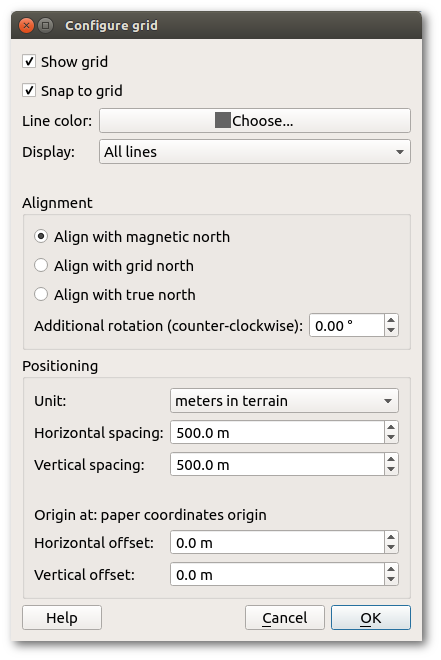
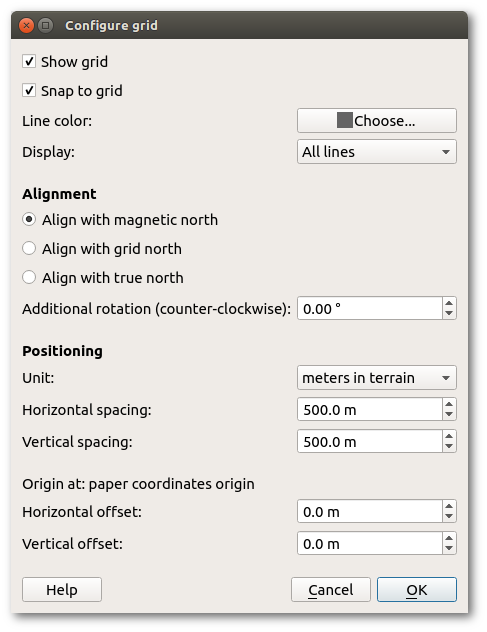
Squashed 'doc/manual/pages/' changes from bf1ff3c..9296a09
9296a09 Update grid configuration dialog screenshot
2797cd7 Add selection items in Edit menu
3e7b29e Add Delete action to Edit menu
c269b20 Reformat Edit menu page
b9ba58d Remove tools remark from Edit menu page
7d74917 Add map parts page to index
676205e Create Map Parts page
32a2117 Update Map menu
b5fc4fd Fix menu item wording
66a0236 Update Redo shortcut

git-subtree-dir: doc/manual/pages
git-subtree-split: 9296a09c8fe399f9a1184c37d4ff9c09bc106a61

Changed region(s): [[0.0295, 0.0301, 0.9728, 0.962], [0.0295, 0.0, 0.3832, 0.2706], [0.0295, 0.6915, 0.3243, 0.7215]]

diff --git a/edit_menu.md b/edit_menu.md
@@ -3,34 +3,78 @@ title: Edit Menu
 authors:
   - Peter Hoban
   - Thomas Schoeps
+  - Kai Pastor
 keywords: Menus
-edited: 24 February 2013
+edited: 10 Januar 2016
 ---
 
-<table><tr><td width="40"><img class="small" src="../mapper-images/undo.png" width="32" height="32" border="0" alt="" /></td><td width="100"><h4>Undo</h4></td><td width="70"><h4>Ctrl+Z</h4></td><td width="400">
-<p>This most important function reverses the last change made to the map. Repeating 'Undo' will undo earlier changes, one step at a time.<br/><br/>
-<b>Attention</b>: while changes to map objects can be undone this way, not all map changes are covered by the undo system. This includes changes to colors, symbols or templates. Because of this, it is very advisable to make a backup of your map before making such changes.</p>
-</td></tr>
-
-<tr><td><img class="small" src="../mapper-images/redo.png" width="32" height="32" border="0" alt="" /></td><td><h4>Redo</h4></td><td><h4>Ctrl+Y</h4></td><td>
-<p>When you have taken Undo too far this will reverse the process &#8212; again one step at a time.</p></td></tr>
-
-<tr><td><img class="small" src="../mapper-images/cut.png" width="32" height="32" border="0" alt="" /></td><td><h4>Cut</h4></td><td><h4>Ctrl+X</h4></td><td>
-<p>This removes the selected object(s) and moves them to the clipboard.</p></td></tr>
-
-<tr><td><img class="small" src="../mapper-images/copy.png" width="32" height="32" border="0" alt="" /></td><td><h4>Copy</h4></td><td><h4>Ctrl+C</h4></td><td>
-<p>This copies the selected object(s) to the clipboard.</p></td></tr>
-
-<tr><td><img class="small" src="../mapper-images/paste.png" width="32" height="32" border="0" alt="" /></td><td><h4>Paste</h4></td><td><h4>Ctrl+V</h4></td><td>
-<p>This inserts the map object(s) on the clipboard into the map. They will be centered at the view midpoint. <br/><br/>
-<b>Note</b>: when copying ojects between different maps, their symbols and colors may be copied too in order to be able to display the objects in the new map in the same way as in the source map.</p></td></tr>
-
-<tr><td></td><td><h4>Clear undo / redo history</h4></td><td><h4></h4></td><td>
-<p>Clears the undo / redo history, i.e. all undo and redo steps will be deleted. This reduces the file size for map file formats where the last undo and redo steps are stored, e.g. the omap format.</p></td></tr>
-
+<table>
+<tr>
+<td width="40"><img class="small" src="../mapper-images/undo.png" width="32" height="32" border="0" alt="" /></td>
+<td width="100"><b>Undo</b></td>
+<td width="70"><b>Ctrl+Z</b></td>
+<td width="400">This most important function reverses the last change made to the map. Repeating 'Undo' will undo earlier changes, one step at a time.<br/>
+<b>Attention:</b> While changes to map objects can be undone this way, not all map changes are covered by the undo system. This includes changes to colors, symbols or templates.</td>
+</tr>
+<tr>
+<td><img class="small" src="../mapper-images/redo.png" width="32" height="32" border="0" alt="" /></td>
+<td><b>Redo</b></td>
+<td><b>Ctrl+Y, Ctrl+Shift+Z</b></td>
+<td>When you have taken Undo too far this will reverse the process &#8212; again one step at a time.</td>
+</tr>
+<tr>
+<td><img class="small" src="../mapper-images/cut.png" width="32" height="32" border="0" alt="" /></td>
+<td><b>Cut</b></td>
+<td><b>Ctrl+X</b></td>
+<td>This removes the selected object(s) and moves them to the clipboard.</td>
+</tr>
+<tr>
+<td><img class="small" src="../mapper-images/copy.png" width="32" height="32" border="0" alt="" /></td>
+<td><b>Copy</b></td>
+<td><b>Ctrl+C</b></td>
+<td>This copies the selected object(s) to the clipboard.</td>
+</tr>
+<tr>
+<td><img class="small" src="../mapper-images/paste.png" width="32" height="32" border="0" alt="" /></td>
+<td><b>Paste</b></td>
+<td><b>Ctrl+V</b></td>
+<td>This inserts the map object(s) on the clipboard into the map. They will be centered at the view midpoint.<br/>
+<b>Note:</b> When copying objects between different maps, their symbols and colors may be copied too in order to be able to display the objects in the new map in the same way as in the source map.</td>
+</tr>
+<tr>
+<td><img class="small" src="../mapper-images/delete.png" width="32" height="32" border="0" alt="" /></td>
+<td><b>Delete</b></td>
+<td><b>Del</b></td>
+<td>This action deletes the selected object(s).</td>
+</tr>
+<tr>
+<td></td>
+<td><b>Select all</b></td>
+<td><b>Ctrl+A</b></td>
+<td>This selects all objects in the current map part.</td>
+</tr>
+<tr>
+<td></td>
+<td><b>Select nothing</b></td>
+<td><b>Ctrl+Shift+A</b></td>
+<td>After this action, no object is selected.</td>
+</tr>
+<tr>
+<td></td>
+<td><b>Invert selection</b></td>
+<td><b>Ctrl+I</b></td>
+<td>This action inverts the selection in the current map part.</td>
+</tr>
+<tr>
+<td></td>
+<td><b>Select all objects with selected symbols</b></td>
+<td></td>
+<td>After this action, the selection consists of all objects in the current map part which have the selected symbol(s).</td>
+</tr>
+<tr>
+<td></td>
+<td><b>Clear undo / redo history</b></td>
+<td></td>
+<td>Clears the history of undo and redo steps, i.e. all undo and redo steps will be deleted. This reduces the file size for map file formats where the last undo and redo steps are stored, e.g. the omap format.</td>
+</tr>
 </table>
-
-
-<h3>Editing tools</h3>
-<p>OOMapper offers many editing tools which may be accessed through the <a href="tools_menu.md">Tools menu</a> or the <a href="toolbars.md">toolbars</a>.</p>
-

diff --git a/map_menu.md b/map_menu.md
@@ -3,24 +3,76 @@ title: Map Menu
 authors:
   - Peter Hoban
   - Thomas Schoeps
+  - Kai Pastor
 keywords: Menus
-edited: 26 February 2013
+edited: 10 January 2016
 ---
 
-<table><tr><td width="40"> </td><td width="150"><h4>Georeferencing</h4></td><td width="70"><h4> </h4></td><td width="400">
-<p>Opens the <a href="georeferencing.md">georeferencing dialog</a>. </p> </td></tr>
-
-<tr><td width="40"> </td><td width="150"><h4>Configure grid...</h4></td><td width="70"><h4> </h4></td><td width="400">
-<p>Shows the <a href="grid.md">grid configuration dialog</a>.</p></td></tr>
-
-<tr><td width="40"> </td><td width="150"><h4>Change map scale...</h4></td><td width="70"><h4> </h4></td><td width="400">
-<p>Shows a dialog to change the map scale.</p> </td></tr>
-
-<tr><td width="40"> </td><td width="150"><h4>Rotate map...</h4></td><td width="70"><h4> </h4></td><td width="400">
-<p>Shows a dialog to rotate the whole map.</p> </td></tr>
-
-<tr><td width="40"> </td><td width="150"><h4>Map notes...</h4></td><td width="70"><h4> </h4></td><td width="400">
-<p>Shows a text field where any text can be entered which will be saved in the map file, without appearing on the map itself. This can for example be used to store information about map revisions.</p> </td></tr>
-
+<table>
+<tr>
+<td width="40"></td>
+<td width="150"><b>Georeferencing...</b></td>
+<td width="70"></td>
+<td width="400">Opens the <a href="georeferencing.md">georeferencing dialog</a>.</td>
+</tr>
+<tr>
+<td><img class="small" src="../mapper-images/grid.png" width="32" height="32" border="0" alt="" /></td>
+<td><b>Configure grid...</b></td>
+<td></td>
+<td>Shows the <a href="grid.md">grid configuration dialog</a>.</td>
+</tr>
+<tr>
+<td><img class="small" src="../mapper-images/tool-scale.png" width="32" height="32" border="0" alt="" /></td>
+<td><b>Change map scale...</b></td>
+<td></td>
+<td>Shows a dialog to change the map scale.</td>
+</tr>
+<tr>
+<td><img class="small" src="../mapper-images/tool-rotate.png" width="32" height="32" border="0" alt="" /></td>
+<td><b>Rotate map...</b></td>
+<td></td>
+<td>Shows a dialog to rotate the whole map.</td>
+</tr>
+<tr>
+<td></td>
+<td><b>Map notes...</b></td>
+<td></td>
+<td>Shows a text field for entering additional text which will be saved in the map file, without appearing on the map itself. This can for example be used to store information about map revisions.</td>
+</tr>
+<tr>
+<td></td>
+<td><b>Add new part...</b></td>
+<td></td>
+<td>Opens a dialog for entering the name of a new map part which is to be created.</td>
+</tr>
+<tr>
+<td></td>
+<td><b>Rename current part...</b></td>
+<td></td>
+<td>Opens a dialog for changing the name of the current map part.</td>
+</tr>
+<tr>
+<td></td>
+<td><b>Remove current part</b></td>
+<td></td>
+<td>Removes the current map part and all objects it contains.</td>
+</tr>
+<tr>
+<td></td>
+<td><b>Move select objects to</b></td>
+<td></td>
+<td>Moves the selected objects to another map part.</td>
+</tr>
+<tr>
+<td></td>
+<td><b>Merge this part with</b></td>
+<td></td>
+<td>Moves the current part's objects to another map part, and then removes the current map part.</td>
+</tr>
+<tr>
+<td></td>
+<td><b>Merge all parts</b></td>
+<td></td>
+<td>Moves all other parts' objects to the current part, and then removes all other map parts.</td>
+</tr>
 </table>
-

diff --git a/view_menu.md b/view_menu.md
@@ -42,7 +42,7 @@ Note that key F6 starts panning immediately.</td></tr>
 <p>The coordinates of the cursor on the map are shown in the position box at the bottom right corner of the program window. Paper coordinates refer to positions on a paper print, from an arbitrary origin. If your map has been <a href="georeferencing.md">georeferenced</a>, additional coordinate systems will be available. Projected coordinates are meters of easting and northing. Latitude &amp; longitude may be expressed in decimal degrees or in degrees, minutes and seconds.</p>
 <p>The coordinate system may also be selected by a right-click on the position box at the bottom right corner of your screen which will provide the same choices.<br/><br/></p></td></tr>
 
-<tr><td></td><td><a name="fullscreen"><h4>Toggle Fullscreen</h4></a></td><td><h4>F11</h4></td><td>
+<tr><td></td><td><a name="fullscreen"><h4>Toggle fullscreen mode</h4></a></td><td><h4>F11</h4></td><td>
 <p>This toggle switches the display to full-screen mode and back.</p></td></tr>
 
 <tr><td><img class="small" src="../mapper-images/window-new.png" width="32" height="32" border="0" alt="" /></td><td><h4>Tag editor</h4></td><td><h4>Ctrl+Shift+6</h4></td><td>

diff --git a/map_parts.md b/map_parts.md
@@ -1,0 +1,26 @@
+---
+title: Map Parts
+authors:
+  - Kai Pastor
+keywords: Map parts
+edited: 10 January 2016
+---
+
+Map parts partition the map in different collections of objects which can be worked on independently.
+This can be used to organize the work of different people in a map making team.
+Map parts are also used to separate imported objects from existing map content.
+
+Every map object belongs to a particular map part.
+Selected objects may be moved to a different map part.
+You may also move all objects of the current part to another one,
+or merge all other parts into the current one in a single step.
+See the [Map menu](map_menu.md) for actions which create and change map parts.
+
+Only a single map part can be the "current" one.
+It is the context where all selection, editing and drawing operations take place.
+The current map part is displayed and selected in the map part toolbar.
+This toolbar is not displayed as long as the map has only one part. 
+
+Other than templates, map parts are not drawn sequentially one after the other,
+but simultaneously according to the symbols and colors.
+All map parts share the map's colors and symbol sets.

diff --git a/index.md b/index.md
@@ -16,6 +16,9 @@ Contents    {#index_contents}
 [Map Screen](main_window.md){: .subpage} <br/>
 Explanation of the main drawing window.
 
+[Reference](reference.md){: .subpage} <br/>
+Toolbar and menu items, including explanations for [all drawing tools](toolbars.md#drawing)
+
 [Starting a new map](new_map.md){: .subpage} <br/>
 First steps
 
@@ -25,14 +28,14 @@ Defining the relationship between map paper coordinates and real world coordinat
 [Map grid](grid.md){: .subpage} <br />
 Showing a helper grid in the map view.
 
-[Reference](reference.md){: .subpage} <br/>
-Toolbar and menu items, including explanations for [all drawing tools](toolbars.md#drawing)
-
 [Templates](templates-index.md){: .subpage} <br/>
 Working with templates
 
 [Colors and Symbols](colors_symbols.md){: .subpage} <br/>
 Modifying map colors and symbols
+
+[Map Parts](map_parts.md){: .subpage} <br/>
+Organizing objects in maps
 
 [Tag Editor](tag_editor.md){: .subpage} <br/>
 Attaching arbitrary key-value pairs to objects
